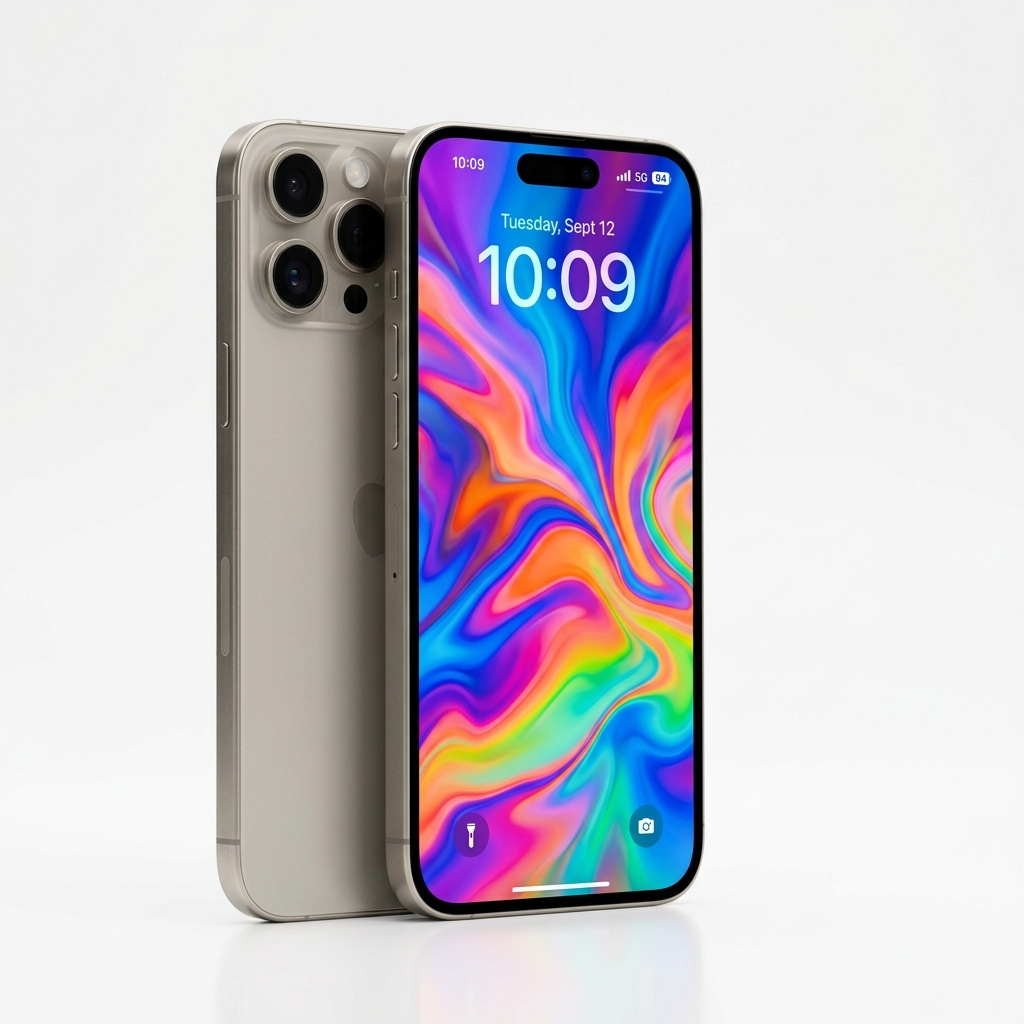
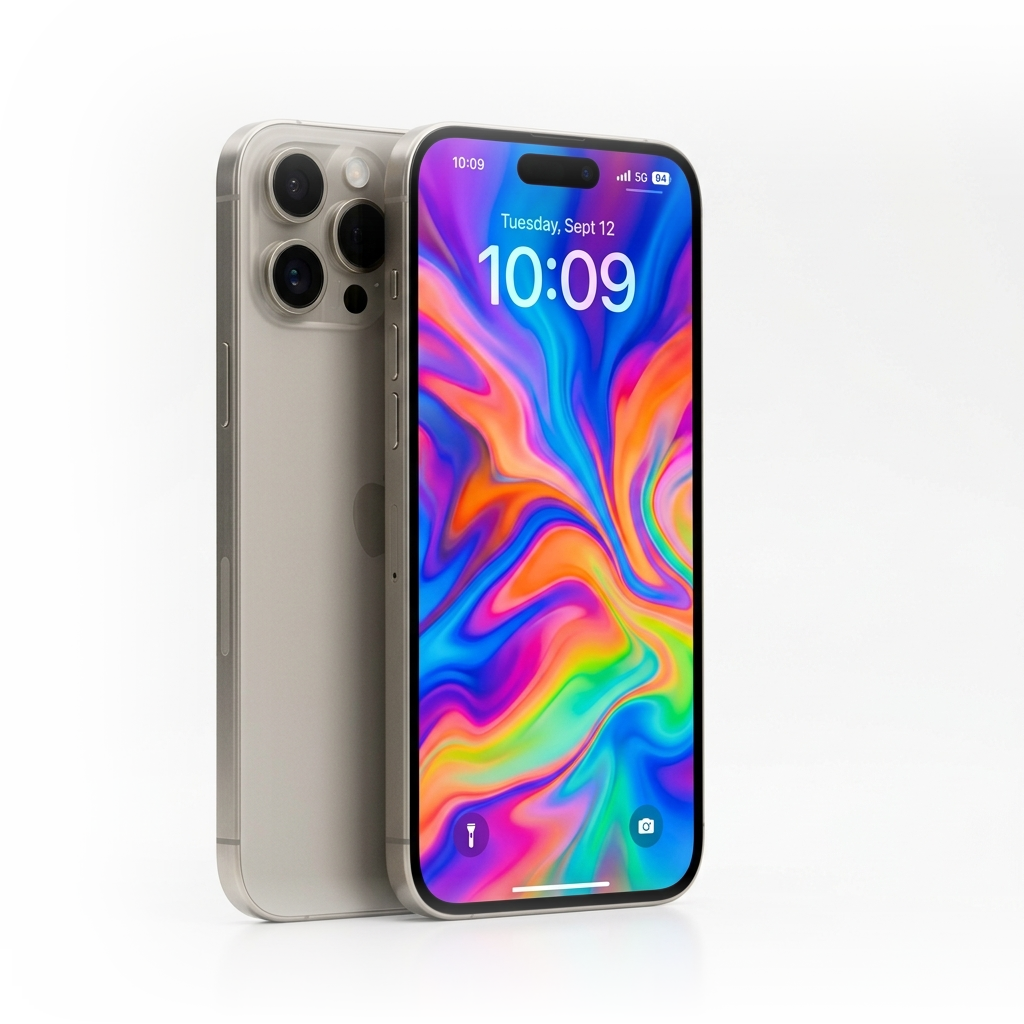
refactor: improve website copy and SEO meta descriptions for better readability and brand clarity

Changed region(s): [[0.1875, 0.0938, 0.6875, 0.1875], [0.2188, 0.8438, 0.6562, 0.9062]]

diff --git a/src/pages/Auth/LoginAndSignup/LoginAndSignup.jsx b/src/pages/Auth/LoginAndSignup/LoginAndSignup.jsx
@@ -1,5 +1,5 @@
 import React, { useContext, useState } from 'react';
-import { useLocation, useNavigate } from 'react-router-dom';
+import { Link, useLocation, useNavigate } from 'react-router-dom';
 import { userContext } from '../../../utilities/UserContextProvider';
 import { validateEmailAddress, validateRequiredText } from '../../../utilities/formValidation';
 import useFormAnalytics from '../../../utilities/useFormAnalytics';
@@ -121,18 +121,51 @@ const LoginAndSignup = () => {
     };
 
     return (
-        <div className="flex items-center justify-center bg-[#f5f5f7] px-5 py-20">
-            <div className="w-full max-w-[480px] bg-white rounded-[40px] p-10 md:p-14 shadow-[0_20px_50px_rgba(0,0,0,0.08)]">
-                <header className="text-center mb-10">
-                    <h1 className="text-3xl font-extrabold mb-2">{signin ? "Welcome Back" : "Join UpCell"}</h1>
-                    <p className="text-apple-gray text-base">
-                        {isAdminLogin
-                            ? "Use a local admin session to manage the shop on this machine."
-                            : signin
-                                ? "Sign in to manage your orders"
-                                : "Create an account to start shopping"}
-                    </p>
-                </header>
+        <div className="flex min-h-[calc(100vh-72px)] w-full items-center justify-center bg-[#f5f5f7] px-4 py-10 md:py-16">
+            <div className="mx-auto flex w-full max-w-[1040px] overflow-hidden rounded-[40px] bg-white shadow-[0_30px_80px_rgba(15,23,42,0.12)]">
+                <div className="relative hidden w-[44%] flex-col justify-between overflow-hidden bg-[linear-gradient(160deg,#0c0c0c_0%,#2b2a2a_100%)] p-12 text-white lg:flex">
+                    <div className="pointer-events-none absolute -right-16 -top-20 h-64 w-64 rounded-full bg-brand-red/30 blur-[90px]" />
+                    <div className="pointer-events-none absolute -bottom-24 -left-12 h-56 w-56 rounded-full bg-brand-red/20 blur-[90px]" />
+                    <Link to="/" className="relative z-10">
+                        <img src="/staticImages/upcellLogoLight.png" alt="UpCell" className="h-9 w-auto" />
+                    </Link>
+                    <div className="relative z-10">
+                        <h2 className="text-[34px] font-extrabold leading-[1.1] text-white">Premium devices,<br />better prices.</h2>
+                        <p className="mt-4 max-w-[320px] text-[15px] leading-7 text-white/60">
+                            Sign in to track your orders, manage trade-ins, and check out faster on certified premium Apple devices.
+                        </p>
+                        <ul className="mt-9 space-y-4">
+                            {[
+                                '40-point certified inspection',
+                                '12-month warranty on every device',
+                                'Trade-in quotes paid within 24 hours',
+                            ].map((point) => (
+                                <li key={point} className="flex items-center gap-3 text-[14px] text-white/85">
+                                    <span className="flex h-6 w-6 shrink-0 items-center justify-center rounded-full bg-brand-red">
+                                        <svg viewBox="0 0 24 24" fill="none" stroke="currentColor" strokeWidth="3" className="h-3.5 w-3.5"><path strokeLinecap="round" strokeLinejoin="round" d="M5 13l4 4L19 7" /></svg>
+                                    </span>
+                                    {point}
+                                </li>
+                            ))}
+                        </ul>
+                    </div>
+                    <p className="relative z-10 text-xs text-white/40">&copy; {new Date().getFullYear()} UpCell. All rights reserved.</p>
+                </div>
+
+                <div className="flex w-full flex-col justify-center p-8 sm:p-12 lg:w-[56%]">
+                    <Link to="/" className="mb-8 inline-block lg:hidden">
+                        <img src="/staticImages/upcellLogo.png" alt="UpCell" className="h-8 w-auto" />
+                    </Link>
+                    <header className="mb-8">
+                        <h1 className="text-3xl font-extrabold mb-2">{signin ? "Welcome back" : "Join UpCell"}</h1>
+                        <p className="text-apple-gray text-base">
+                            {isAdminLogin
+                                ? "Use a local admin session to manage the shop on this machine."
+                                : signin
+                                    ? "Sign in to manage your orders"
+                                    : "Create an account to start shopping"}
+                        </p>
+                    </header>
 
                 {errorMessage && (
                     <div className="bg-red-50 text-red-600 p-4 rounded-xl text-sm font-medium mb-6">{errorMessage}</div>
@@ -203,26 +236,27 @@ const LoginAndSignup = () => {
                     </form>
                 )}
 
-                <div className="flex items-center gap-4 my-6 text-sm text-apple-gray before:flex-1 before:h-px before:bg-border-light after:flex-1 after:h-px after:bg-border-light">or</div>
+                    <div className="flex items-center gap-4 my-6 text-sm text-apple-gray before:flex-1 before:h-px before:bg-black/10 after:flex-1 after:h-px after:bg-black/10">or</div>
 
-                <div className="flex flex-col gap-3 mt-6">
-                    <button onClick={handleGoogleSignin} disabled={isSubmitting} className="premium-button-secondary w-full gap-3 border-[1.5px] border-black hover:border-black">
-                        <img src="https://upload.wikimedia.org/wikipedia/commons/c/c1/Google_%22G%22_logo.svg" alt="Google" className="w-5 h-5" />
-                        Continue with Google
-                    </button>
-                    <button onClick={() => alert("Apple Sign-in coming soon!")} className="premium-button w-full gap-3">
-                        <svg viewBox="0 0 384 512" fill="currentColor" className="w-5 h-5"><path d="M318.7 268.7c-.2-36.7 16.4-64.4 50-84.8-18.8-26.9-47.2-41.7-84.7-44.6-35.5-2.8-74.3 20.7-88.5 20.7-15 0-49.4-19.7-76.4-19.7C63.3 141.2 4 184.8 4 273.5q0 39.3 14.4 81.2c12.8 36.7 59 126.7 107.2 125.2 25.2-.6 43-17.9 75.8-17.9 31.8 0 48.3 17.9 76.4 17.9 48.6-.7 90.4-82.5 102.6-119.3-65.2-30.7-61.7-90-61.7-91.9zm-56.6-164.2c27.3-32.4 24.8-61.9 24-72.5-24.1 1.4-52 16.4-67.9 34.9-17.5 19.8-27.8 44.3-25.6 71.9 26.1 2 49.9-11.4 69.5-34.3z"/></svg>
-                        Continue with Apple
-                    </button>
+                    <div className="flex flex-col gap-3">
+                        <button onClick={handleGoogleSignin} disabled={isSubmitting} className="premium-button-secondary w-full gap-3 border-black/10 bg-[#f8f8fa] hover:bg-[#f0f0f3]">
+                            <img src="https://upload.wikimedia.org/wikipedia/commons/c/c1/Google_%22G%22_logo.svg" alt="Google" className="w-5 h-5" />
+                            Continue with Google
+                        </button>
+                        <button onClick={() => alert("Apple Sign-in coming soon!")} className="premium-button-secondary w-full gap-3 border-black/10 bg-[#f8f8fa] hover:bg-[#f0f0f3]">
+                            <svg viewBox="0 0 384 512" fill="currentColor" className="w-5 h-5"><path d="M318.7 268.7c-.2-36.7 16.4-64.4 50-84.8-18.8-26.9-47.2-41.7-84.7-44.6-35.5-2.8-74.3 20.7-88.5 20.7-15 0-49.4-19.7-76.4-19.7C63.3 141.2 4 184.8 4 273.5q0 39.3 14.4 81.2c12.8 36.7 59 126.7 107.2 125.2 25.2-.6 43-17.9 75.8-17.9 31.8 0 48.3 17.9 76.4 17.9 48.6-.7 90.4-82.5 102.6-119.3-65.2-30.7-61.7-90-61.7-91.9zm-56.6-164.2c27.3-32.4 24.8-61.9 24-72.5-24.1 1.4-52 16.4-67.9 34.9-17.5 19.8-27.8 44.3-25.6 71.9 26.1 2 49.9-11.4 69.5-34.3z"/></svg>
+                            Continue with Apple
+                        </button>
+                    </div>
+
+                    <footer className="text-center mt-8 text-[14px] text-apple-gray">
+                        {signin ? (
+                            <>New to UpCell? <button className="text-apple-text font-black hover:underline underline-offset-4 bg-transparent p-0 transition-all" type="button" onClick={settingSingup}>Sign up</button></>
+                        ) : (
+                            <>Already have an account? <button className="text-apple-text font-black hover:underline underline-offset-4 bg-transparent p-0 transition-all" type="button" onClick={settingSingin}>Sign in</button></>
+                        )}
+                    </footer>
                 </div>
-
-                <footer className="text-center mt-10 text-[14px] text-apple-gray">
-                    {signin ? (
-                        <>New to UpCell? <button className="text-apple-text font-black hover:underline underline-offset-4 bg-transparent p-0 transition-all" type="button" onClick={settingSingup}>Sign up</button></>
-                    ) : (
-                        <>Already have an account? <button className="text-apple-text font-black hover:underline underline-offset-4 bg-transparent p-0 transition-all" type="button" onClick={settingSingin}>Sign in</button></>
-                    )}
-                </footer>
             </div>
         </div>
     );

diff --git a/src/pages/TradeIn/TradeIn.jsx b/src/pages/TradeIn/TradeIn.jsx
@@ -18,14 +18,14 @@ import useFormAnalytics from '../../utilities/useFormAnalytics';
 /* ───────────── STATIC DATA ───────────── */
 
 const deviceOptions = [
-    { id: 'iPhone', title: 'iPhone', desc: 'Trade in any iPhone 11 through iPhone 16 Pro Max — unlocked or carrier models accepted.', icon: PhoneIphoneIcon },
-    { id: 'iPad', title: 'iPad', desc: 'iPad Air, iPad mini, and iPad Pro accepted — Wi-Fi and cellular models welcome.', icon: TabletMacIcon },
-    { id: 'MacBook', title: 'MacBook', desc: 'MacBook Air and MacBook Pro — M1, M2, and M3 chips all eligible for trade-in.', icon: LaptopMacIcon },
+    { id: 'iPhone', title: 'iPhone', desc: 'Trade in any iPhone from the iPhone 11 to the iPhone 16 Pro Max. We accept unlocked and carrier models.', icon: PhoneIphoneIcon },
+    { id: 'iPad', title: 'iPad', desc: 'We accept iPad Air, iPad mini, and iPad Pro. Both Wi-Fi and cellular models are welcome.', icon: TabletMacIcon },
+    { id: 'MacBook', title: 'MacBook', desc: 'Trade in MacBook Air and MacBook Pro models. M1, M2, and M3 chips are all eligible.', icon: LaptopMacIcon },
     { id: 'Android', title: 'Android', desc: 'Trade in your Samsung Galaxy S, Google Pixel, or other Android device.', icon: AndroidIcon },
 ];
 
 const androidBrandOptions = [
-    { id: 'Samsung', title: 'Samsung Galaxy', desc: 'Galaxy S series — S22 Ultra and newer flagships accepted.', icon: AndroidIcon },
+    { id: 'Samsung', title: 'Samsung Galaxy', desc: 'Galaxy S series accepted, including the S22 Ultra and newer flagships.', icon: AndroidIcon },
     { id: 'Google', title: 'Google Pixel', desc: 'Pixel 8 and newer Pixel devices accepted.', icon: AndroidIcon },
     { id: 'AndroidOther', title: 'Other Brand', desc: "Different brand or model? Tell us about it and our team will reach out with an offer.", icon: AndroidIcon },
 ];
@@ -442,7 +442,7 @@ const TradeIn = () => {
                         <KeyboardArrowRightIcon className="!text-sm" />
                         <span className="text-white">Trade In</span>
                     </nav>
-                    <h1 className="mt-6 text-[clamp(2.8rem,5vw,5rem)] leading-[0.92] text-white">Trade In Your iPhone, iPad, MacBook or Android — Get Paid Fast</h1>
+                    <h1 className="mt-6 text-[clamp(2.8rem,5vw,5rem)] leading-[0.92] text-white">Trade In Your iPhone, iPad, MacBook or Android and Get Paid Fast</h1>
                     <p className="mt-5 max-w-[680px] text-lg leading-8 text-white/72">
                         Get an instant trade-in estimate for your used Apple or Android device. Free insured shipping, 24-hour payout after inspection, and a transparent process from start to finish.
                     </p>
@@ -692,7 +692,7 @@ const TradeIn = () => {
                             <div className="mt-6 border-t border-black/[0.06] pt-6">
                                 <div className="text-xs font-bold uppercase tracking-[0.18em] text-apple-gray">Estimated value</div>
                                 <div className="mt-2 text-4xl font-extrabold text-apple-text">
-                                    {estimate ? `$${estimate}` : '—'}
+                                    {estimate ? `$${estimate}` : '--'}
                                 </div>
                                 <p className="mt-2 text-xs leading-5 text-ink-soft">Final value confirmed after inspection.</p>
                             </div>
@@ -813,7 +813,7 @@ const TradeIn = () => {
                     </div>
                 )}
 
-                {/* ─── Step: AndroidOther — Custom Phone Request ─── */}
+                {/* Step: AndroidOther - Custom Phone Request */}
                 {step === stepMap['Your details'] && selection.device === 'AndroidOther' && (
                     <div className="grid gap-8 lg:grid-cols-[1fr_360px]">
                         <div className="space-y-8">
@@ -898,7 +898,7 @@ const TradeIn = () => {
                         <h2 className="mt-6 text-[42px]">{selection.device === 'AndroidOther' ? 'Request received.' : 'Trade-in request received.'}</h2>
                         <p className="mx-auto mt-4 max-w-[560px] text-lg leading-8 text-ink-soft">
                             {selection.device === 'AndroidOther'
-                                ? "Thanks — our team will review your phone details and reach out within 1 business day with a personalised offer."
+                                ? "Thanks! Our team will review your phone details and reach out within 1 business day with a personalized offer."
                                 : "We'll email your prepaid shipping label, inspection guidance, and next steps within 1 business day. Payout is issued within 24 hours of device inspection."}
                         </p>
                         {selection.device !== 'AndroidOther' && (

diff --git a/src/components/CategoryShelf/CategoryShelf.jsx b/src/components/CategoryShelf/CategoryShelf.jsx
@@ -26,10 +26,10 @@ const CategoryShelf = () => {
                     >
                         <div className="relative z-[2] max-w-[340px]">
                             <h3 className="mb-4 text-[42px]">iPhone</h3>
-                            <p className="mb-8 text-lg leading-8 text-ink-soft">Certified premium iPhones from iPhone 11 through iPhone 16 Pro Max — battery health disclosed, unlocked options available, and trade-in pricing included.</p>
+                            <p className="mb-8 text-lg leading-8 text-ink-soft">Certified premium iPhones, from the iPhone 11 to the iPhone 16 Pro Max. We disclose battery health up front, offer unlocked options, and factor trade-in pricing into every deal.</p>
                             <span className="text-[15px] font-bold tracking-tight text-apple-text underline-offset-8 group-hover:underline">Shop Premium iPhone →</span>
                         </div>
-                        <img src="/staticImages/category-iphone.png" alt="iPhone" className="pointer-events-none absolute -bottom-4 -right-10 w-[64%] max-w-[420px] object-contain transition-transform duration-700 group-hover:scale-105 drop-shadow-[0_35px_60px_rgba(15,23,42,0.16)]" />
+                        <img src="/staticImages/category-iphone.png" alt="iPhone" className="pointer-events-none absolute top-1/2 -translate-y-1/2 -right-10 w-[54%] max-w-[360px] object-contain transition-transform duration-700 group-hover:scale-105" />
                     </Link>
 
                     <div className="grid gap-6">
@@ -37,12 +37,12 @@ const CategoryShelf = () => {
                             to="/shop?category=iPad" 
                             className="premium-card group relative flex min-h-[220px] items-center overflow-hidden rounded-[40px] bg-[linear-gradient(135deg,#f8f8fa_0%,#ffffff_100%)] p-10 transition-all duration-500 hover:-translate-y-1.5 hover:shadow-medium"
                         >
-                            <div className="relative z-[2] max-w-[280px]">
+                            <div className="relative z-[2] max-w-[360px]">
                                 <h3 className="mb-3">iPad</h3>
-                                <p className="mb-6 text-sm leading-7 text-ink-soft">Pre-owned iPad Air, iPad mini, and iPad Pro — inspected and graded, with Wi-Fi and cellular options at honest prices.</p>
+                                <p className="mb-6 text-sm leading-7 text-ink-soft">Premium pre-owned iPad Air, iPad mini, and iPad Pro models, each inspected and graded against our 40-point standard. Pick Wi-Fi or cellular and the storage that fits how you work, study, and create. Every iPad is honestly priced and backed by a 12-month warranty.</p>
                                 <span className="text-sm font-bold text-apple-text underline-offset-4 group-hover:underline">Shop Premium iPad →</span>
                             </div>
-                            <img src="/staticImages/category-ipad.png" alt="iPad" className="pointer-events-none absolute -bottom-6 -right-4 w-[42%] max-w-[220px] object-contain transition-transform duration-700 group-hover:scale-105 drop-shadow-[0_35px_60px_rgba(15,23,42,0.14)]" />
+                            <img src="/staticImages/category-ipad.png" alt="iPad" className="pointer-events-none absolute top-1/2 -translate-y-1/2 -right-6 w-[44%] max-w-[300px] object-contain transition-transform duration-700 group-hover:scale-105" />
                         </Link>
 
                         <Link 
@@ -51,10 +51,10 @@ const CategoryShelf = () => {
                         >
                             <div className="relative z-[2] max-w-[280px]">
                                 <h3 className="mb-3 text-white">MacBook</h3>
-                                <p className="mb-6 text-sm leading-7 text-white/70">Premium MacBook Air and MacBook Pro with M1, M2, and M3 chips — professionally tested and ready to ship at a fraction of retail.</p>
+                                <p className="mb-6 text-sm leading-7 text-white/70">Premium MacBook Air and MacBook Pro models with M1, M2, and M3 chips. Each one is professionally tested and ready to ship at a fraction of retail price.</p>
                                 <span className="text-sm font-bold text-white underline-offset-4 group-hover:underline">Shop Premium MacBook →</span>
                             </div>
-                            <img src="/staticImages/category-macbook.png" alt="MacBook" className="pointer-events-none absolute -bottom-4 -right-2 w-[54%] max-w-[300px] object-contain opacity-95 transition-transform duration-700 group-hover:scale-105 drop-shadow-[0_45px_80px_rgba(0,0,0,0.45)]" />
+                            <img src="/staticImages/category-macbook.png" alt="MacBook" className="pointer-events-none absolute top-1/2 -translate-y-1/2 -right-2 w-[54%] max-w-[300px] object-contain opacity-95 transition-transform duration-700 group-hover:scale-105" />
                         </Link>
                     </div>
                 </div>

diff --git a/index.html b/index.html
@@ -4,8 +4,8 @@
     <meta charset="UTF-8" />
     <link rel="icon" type="image/png" href="/staticImages/faviconUpcell.png" />
     <meta name="viewport" content="width=device-width, initial-scale=1.0" />
-    <title>UpCell — Certified Premium iPhone, iPad &amp; MacBook | Trade In Your Apple Device</title>
-    <meta name="description" content="Shop certified premium iPhones, iPads, and MacBooks at UpCell. Every Apple device is professionally inspected, graded for condition, and backed by a 12-month warranty. Save up to 40% vs. new — plus fast trade-in quotes for your current device." />
+    <title>UpCell | Certified Premium iPhone, iPad &amp; MacBook | Trade In Your Apple Device</title>
+    <meta name="description" content="Shop certified premium iPhones, iPads, and MacBooks at UpCell. Every premium Apple device is professionally inspected, graded for condition, and backed by a 12-month warranty. Save up to 40% versus new, and get a fast trade-in quote for your current device." />
     <meta name="keywords" content="certified premium iPhone, premium iPad, premium MacBook, buy Apple devices, iPhone trade-in, Apple trade-in value, certified Apple, certified premium iPhone, premium MacBook, certified Apple" />
     <meta name="robots" content="index, follow" />
     <link rel="canonical" href="https://upcell.com/" />
@@ -13,14 +13,14 @@
     <!-- Open Graph -->
     <meta property="og:type" content="website" />
     <meta property="og:site_name" content="UpCell" />
-    <meta property="og:title" content="UpCell — Certified Premium iPhone, iPad &amp; MacBook" />
+    <meta property="og:title" content="UpCell | Certified Premium iPhone, iPad &amp; MacBook" />
     <meta property="og:description" content="Shop certified premium Apple devices at UpCell. Professionally inspected, honestly priced, and backed by a 12-month warranty. Get an instant trade-in quote today." />
     <meta property="og:image" content="/staticImages/hero-iphone15.png" />
     <meta property="og:url" content="https://upcell.com/" />
 
     <!-- Twitter Card -->
     <meta name="twitter:card" content="summary_large_image" />
-    <meta name="twitter:title" content="UpCell — Certified Premium iPhone, iPad &amp; MacBook" />
+    <meta name="twitter:title" content="UpCell | Certified Premium iPhone, iPad &amp; MacBook" />
     <meta name="twitter:description" content="Shop certified premium Apple devices at UpCell. Professionally inspected, honestly priced, and backed by a 12-month warranty." />
     <meta name="twitter:image" content="/staticImages/hero-iphone15.png" />
   </head>

diff --git a/src/pages/Legal/AboutUs/AboutUs.jsx b/src/pages/Legal/AboutUs/AboutUs.jsx
@@ -20,9 +20,9 @@ const AboutUs = () => {
                         <KeyboardArrowRightIcon className="!text-sm" />
                         <span className="text-apple-text">About</span>
                     </nav>
-                    <h1 className="text-[clamp(2.8rem,5vw,5rem)] leading-[0.92]">About UpCell — Certified Premium Apple Devices You Can Trust</h1>
+                    <h1 className="text-[clamp(2.8rem,5vw,5rem)] leading-[0.92]">About UpCell: Certified Premium Apple Devices You Can Trust</h1>
                     <p className="mt-5 max-w-[700px] text-lg leading-8 text-ink-soft">
-                        UpCell is a certified reseller of premium Apple hardware — sourcing, inspecting, and presenting every premium iPhone, iPad, and MacBook to a higher standard than a typical secondhand marketplace.
+                        UpCell is a certified reseller of premium Apple hardware. We source, inspect, and present every premium iPhone, iPad, and MacBook to a higher standard than the typical secondhand marketplace.
                     </p>
                 </div>
             </section>
@@ -32,7 +32,7 @@ const AboutUs = () => {
                     <div className="premium-card rounded-[36px] p-8 md:p-10">
                         <h2>Our mission</h2>
                         <p className="mt-5 text-lg leading-8 text-ink-soft">
-                            We source and certify premium Apple devices against a rigorous 40-point inspection standard covering hardware performance, battery health, and cosmetic condition. Every premium iPhone, iPad, and MacBook is graded honestly — so you know exactly what you're getting.
+                            We source and certify premium Apple devices against a rigorous 40-point inspection standard covering hardware performance, battery health, and cosmetic condition. Every premium iPhone, iPad, and MacBook is graded honestly, so you know exactly what you're getting.
                         </p>
                         <p className="mt-5 text-lg leading-8 text-ink-soft">
                             That means transparent pricing, accurate condition grades, a 12-month warranty on every device, and an experience that respects both the product and the customer choosing it.

diff --git a/src/pages/Auxiliary/Contactus/Contactus.jsx b/src/pages/Auxiliary/Contactus/Contactus.jsx
@@ -78,9 +78,9 @@ const Contactus = () => {
                         <KeyboardArrowRightIcon className="!text-sm" />
                         <span className="text-apple-text">Support</span>
                     </nav>
-                    <h1 className="text-[clamp(2.8rem,5vw,5rem)] leading-[0.92]">Contact UpCell — Premium Apple Device Support</h1>
+                    <h1 className="text-[clamp(2.8rem,5vw,5rem)] leading-[0.92]">Contact UpCell: Premium Apple Device Support</h1>
                     <p className="mt-5 max-w-[680px] text-lg leading-8 text-ink-soft">
-                        Questions about a certified premium iPhone, iPad, or MacBook? Need help with a trade-in quote, order update, or return? Our team responds within 24 hours — reach us by email, Facebook, or Instagram.
+                        Questions about a certified premium iPhone, iPad, or MacBook? Need help with a trade-in quote, order update, or return? Our team responds within 24 hours. Reach us by email, Facebook, or Instagram.
                     </p>
                 </div>
             </section>

diff --git a/src/pages/Cart/Cart.jsx b/src/pages/Cart/Cart.jsx
@@ -92,7 +92,7 @@ const Cart = () => {
                         <KeyboardArrowRightIcon className="!text-sm" />
                         <span className="text-apple-text">Cart</span>
                     </nav>
-                    <h1 className="text-[clamp(2.6rem,4.6vw,4.8rem)] leading-[0.94]">Your Cart — Certified Premium Apple Devices</h1>
+                    <h1 className="text-[clamp(2.6rem,4.6vw,4.8rem)] leading-[0.94]">Your Cart of Certified Premium Apple Devices</h1>
                     <p className="mt-5 max-w-[640px] text-lg leading-8 text-ink-soft">
                         Review your selected premium iPhones, iPads, or MacBooks, confirm quantities, and proceed to secure checkout.
                     </p>
@@ -144,7 +144,7 @@ const Cart = () => {
                 ) : (
                     <div className="premium-card rounded-[36px] px-8 py-16 text-center">
                         <h2>Your cart is empty.</h2>
-                        <p className="mt-4 text-lg text-ink-soft">Browse certified premium iPhones, iPads, and MacBooks — all inspected, graded, and backed by a 12-month warranty.</p>
+                        <p className="mt-4 text-lg text-ink-soft">Browse certified premium iPhones, iPads, and MacBooks. Every device is inspected, graded, and backed by a 12-month warranty.</p>
                         <Link to="/shop" className="premium-button mt-6">Explore the shop</Link>
                     </div>
                 )}

diff --git a/src/components/HomeTrustFeatures/HomeTrustFeatures.jsx b/src/components/HomeTrustFeatures/HomeTrustFeatures.jsx
@@ -30,7 +30,7 @@ const HomeTrustFeatures = () => {
                 </svg>
             ),
             title: "Save Up to 40% vs. New",
-            description: "Certified premium Apple devices at a fraction of retail — same performance, 12-month warranty, better value."
+            description: "Certified premium Apple devices at a fraction of retail price. You get the same performance and a 12-month warranty for far better value."
         }
     ];
 

diff --git a/src/components/layout/Footer/MyFooter.jsx b/src/components/layout/Footer/MyFooter.jsx
@@ -58,7 +58,7 @@ const MyFooter = () => {
                                 <img src="/staticImages/upcellLogoFooter.png" alt="Upcell Logo" className="h-12 w-auto" />
                             </Link>
                             <p className="max-w-[320px] text-[13px] leading-6 text-ink-soft">
-                                Certified premium iPhones, iPads, and MacBooks — professionally inspected, honestly graded, and backed by a 12-month warranty. Save up to 40% vs. new.
+                                Premium Apple devices you can trust. We professionally inspect and honestly grade every certified iPhone, iPad, and MacBook, then back it with a 12-month warranty. Save up to 40% versus buying new.
                             </p>
                             <div className="flex gap-3 pt-2">
                                 <a href="https://instagram.com" target="_blank" rel="noreferrer" aria-label="Instagram" className="flex h-11 w-11 items-center justify-center rounded-full border border-black/[0.06] text-apple-gray hover:-translate-y-0.5 hover:bg-surface-alt hover:text-apple-text"><SocialIcons.Instagram /></a>

diff --git a/src/data/blogData.js b/src/data/blogData.js
@@ -64,7 +64,7 @@ This article also touches on the environmental impact of battery longevity. By t
 
 We analyze the seasonal trends and the 'Model Lifecycle' curve to find the optimal moment for a trade-in:
 - The Keynote Effect: How new product announcements impact the value of older generations.
-- Condition Critical: Small scratches can have a disproportionate impact on trade-in value—why protectors pay for themselves.
+- Condition Critical: Small scratches can have a disproportionate impact on trade-in value, which is exactly why screen protectors pay for themselves.
 - The 3-Year Sweet Spot: Why three generations is often the ideal upgrade interval for maximum value retention.
 
 UpCell's trade-in process is designed to be straightforward and rewarding. We provide a transparent bridge between your old gear and your next premium upgrade, removing the anxiety of private marketplace listings.

diff --git a/src/pages/Auxiliary/Resources/Resources.jsx b/src/pages/Auxiliary/Resources/Resources.jsx
@@ -16,7 +16,7 @@ const Resources = () => {
                     </nav>
                     <h1 className="text-[clamp(2.8rem,5vw,5rem)] leading-[0.92]">Premium Apple Buying Guides, Trade-In Tips & Device Care Resources</h1>
                     <p className="mt-5 max-w-[700px] text-lg leading-8 text-ink-soft">
-                        Practical guides on buying certified premium iPhones, iPads, and MacBooks — plus trade-in advice, condition grading explained, and tips to get the most from your premium Apple device.
+                        Practical guides on buying certified premium iPhones, iPads, and MacBooks, plus trade-in advice, condition grading explained, and tips to get the most from your premium Apple device.
                     </p>
                 </div>
             </section>

diff --git a/src/pages/Home/ModernHero.jsx b/src/pages/Home/ModernHero.jsx
@@ -31,7 +31,7 @@ const ModernHero = () => {
                             <div className="absolute inset-x-0 -top-px h-px bg-gradient-to-r from-transparent via-white/20 to-transparent" />
                             <img
                                 src="/staticImages/hero-iphone15.png"
-                                alt="Certified premium iPhone — UpCell certified Apple devices"
+                                alt="Certified premium iPhone from UpCell, a trusted seller of premium Apple devices"
                                 className="relative z-[2] w-full max-w-[420px] animate-[floatSoft_5.5s_ease-in-out_infinite] object-contain drop-shadow-[0_45px_100px_rgba(255,255,255,0.08)]"
                             />
                         </div>